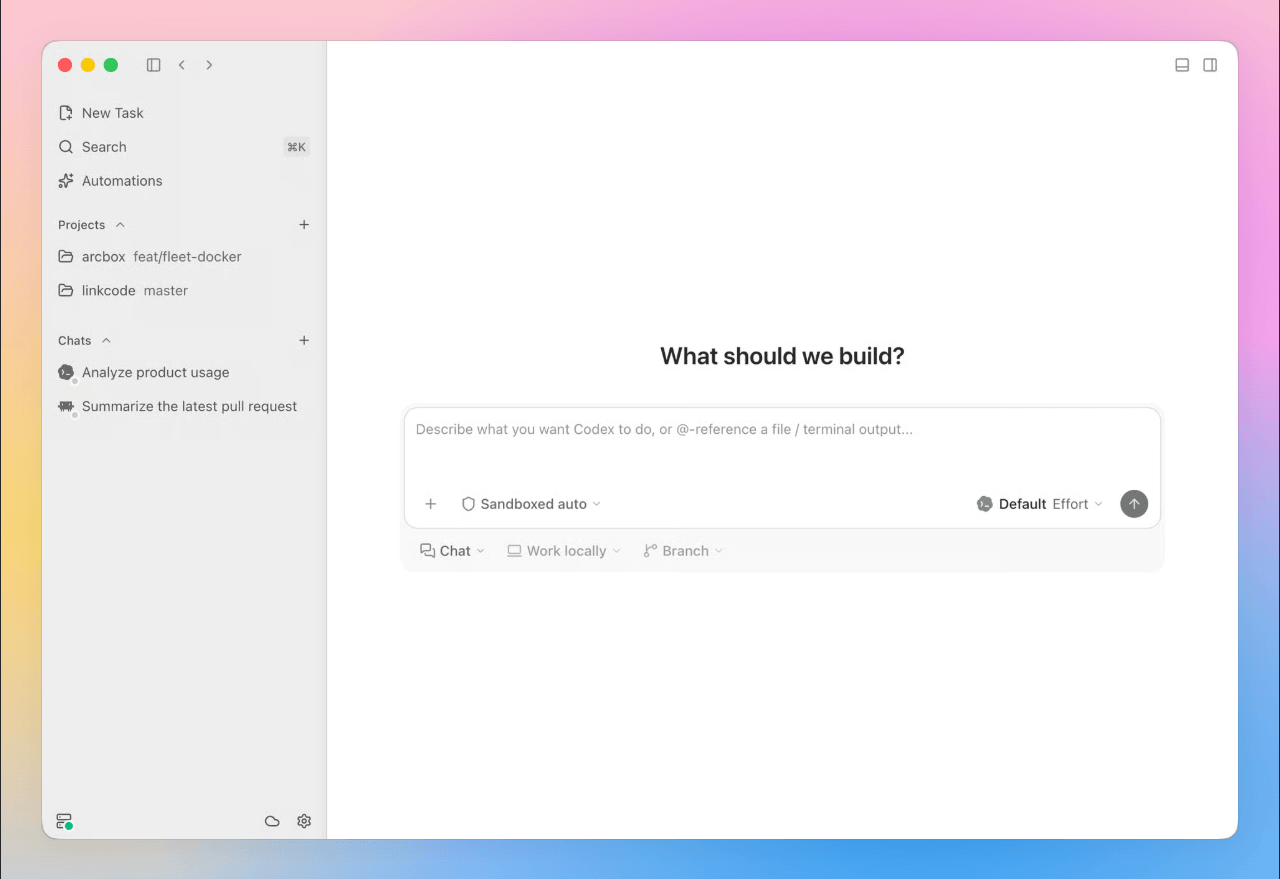
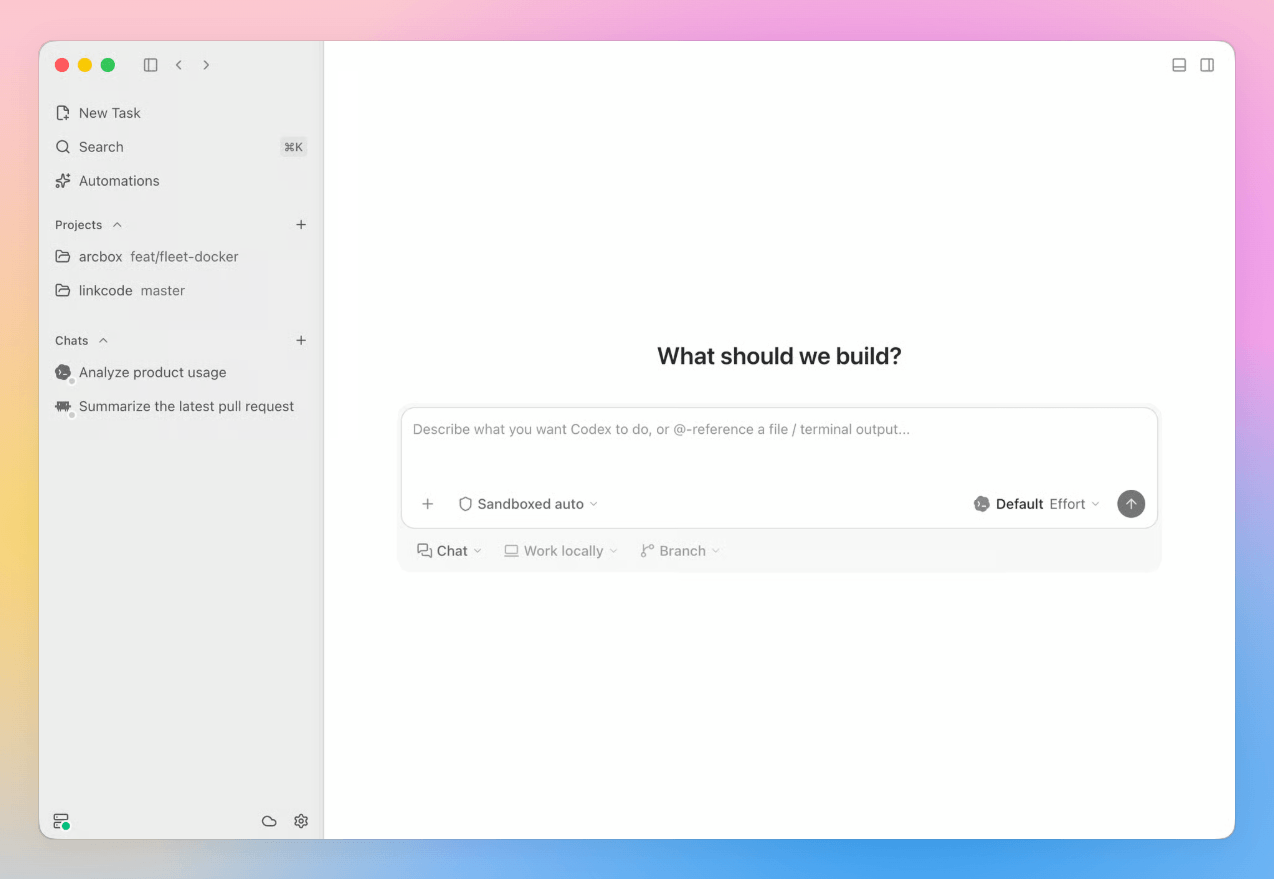
feat: update screenshots

diff --git a/README.md b/README.md
@@ -1,4 +1,3 @@
-<h4 align="right"><strong>English</strong> | <a href="docs/README.zh-CN.md">简体中文</a></h4>
 
 <p align="center">
     <picture>
@@ -8,8 +7,11 @@
 </p>
 
 <h1 align="center">LinkCode</h1>
+
+<h4 align="center"><strong>English</strong> | <a href="docs/README.zh-CN.md">简体中文</a></h4>
+
 <p align="center"><strong>
-Open-source alternative to Codex App / Workbuddy, supporting Codex, Claude Code, OpenCode, Pi, and Grok Build.
+Open-source alternative to Codex App, supporting Codex, Claude Code, OpenCode, Pi, and Grok Build.
 </strong></p>
 <p align="center">
 可能是最好用的 Codex App / WorkBuddy 开源平替，支持 Codex、Claude Code、OpenCode、Pi 和 Grok Build。
